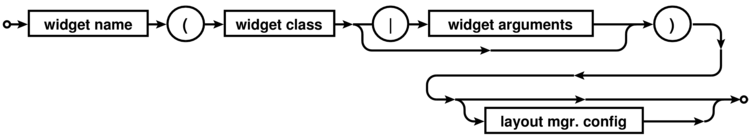
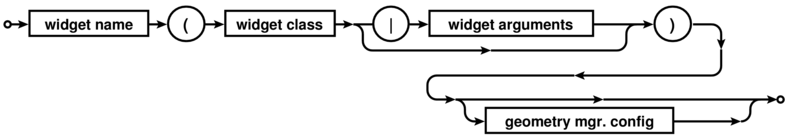
Update docs

diff --git a/doc/index.rst b/doc/index.rst
@@ -10,7 +10,7 @@ Guidoc
 
 Guidoc is a Python package that allows you to create `Tkinter <https://wiki.python.org/moin/TkInter>`_ widget layouts using a simple `docstring specification`_. It can be used dynamically with docstrings passed to a class decorator or to statically generate a layout method from a specification file. The specification lets you describe a widget hierarchy in a compact form with a simple indented list. This is also used to compactly describe menus. When the docutils package is installed, grid layouts can be described using ASCII tables to visually indicate where widgets are located and how they span rows or columns.
 
-Guidoc saves you from the challenge of writing and managing complex Tkinter layouts as you can easily see the parent-child relationships between widgets and menu items. Grid layouts are easy to modify at a later date without having to decipher the row and column indices.
+Guidoc saves you from the challenge of writing and managing complex Tkinter layouts. You can easily see the parent-child relationships between widgets and menu items and change the hierarchy with ease. Grid layouts are easy to modify at a later date without having to decipher the long forgotten row and column indices.
 
 
 .. code-block:: python
@@ -259,7 +259,7 @@ Each grid cell in the table contains a single widget name corresponding to the n
 
 The section parameter for the grid identifies which widget the grid applies to. This must be the name of a container widget that can serve as the parent to child widgets. These are ``Frame`` and ``Toplevel`` in the built in Tkinter classes. One grid section can have its parameter omitted in which case it applies to the top level widgets for the new class being defined in your code.
 
-After the grid is parsed, all widgets identified in the grid are converted to use the grid geometry manager. The cell coordinates and row/column span data are added to the widget specifications. Any sibling widgets missing from the grid have their default layout manager changed to grid as well and they will be stacked in additional rows under column one.
+After the grid is parsed, all widgets identified in the grid are converted to use the grid geometry manager. The cell coordinates and row/column span data are added to the widget specifications. Any sibling widgets missing from the grid have their default geometry manager changed to grid as well and they will be stacked in additional rows under column one.
 
 Sibling widgets that have been explicitly set to use the ``pack`` or ``place`` geometry managers will conflict with the use of the ``grid`` geometry manager. This will cause an exception and terminate parsing of the specification.
 
@@ -310,9 +310,8 @@ For check and radio button items you will want to use the appropriate Tkinter va
 
 .. image:: images/scripts/menu.png
 
-With a menu bar, the first level of hierarchy becomes the top level menu. Subsequent levels are pull down cascade menus. Each cascade menu has its tearoff property disabled by default for a more up to date rendering style.
+With a menu bar, the first level of hierarchy becomes the top level menu. Subsequent levels are pull down cascade menus. Each cascade menu has its tearoff property disabled for a more up to date rendering style.
 
-Internally the Tk library uses numeric indices to refer to menu entries. To help track these indices a ``dict`` called "indices" is inserted into the top level menu widget whose keys are the text of the menu entry.
 
 Using the decorator
 -------------------
@@ -328,10 +327,21 @@ You use the ``tk_layout`` class decorator to dynamically generate the layout met
   method_name
     The name of the method to generate. This defaults to "_build_widgets"
     
+  layout_file
+    An optional path to a text file with the layout specification. Only used when layout is empty.
+    
   require_docutils
     Raise a ``GridError`` exception when docutils is not present. This defaults to False.
 
 The decorator is used on the widget subclass you create for your program. This class should inherit from any Tkinter container widget such as ``Frame`` or ``Toplevel``. It is only ran once before Python creates the class object, parsing the specification and inserting the generated method. After that no part of Guidoc will execute in your program.
+
+It you want the layout stored in a separate file you can use the ``layout_file`` agument to access it.
+
+.. code-block:: python
+
+  @tk_layout(layout_file='my_layout.txt')
+  class MyDialog(tk.Frame)
+    ...
 
 The original layout string is accessible through the ``_guidoc`` attribute of the class.
 
@@ -342,7 +352,7 @@ Your ``__init__`` method should instantiate any Tkinter variables needed by the 
   @tk_layout('''
   # Your layout specification goes here
   ''')
-  class MyFialog(tk.Frame):
+  class MyDialog(tk.Frame):
     def __init__(self, parent):
       tk.Frame.__init__(self, parent)
 
@@ -379,6 +389,37 @@ You can also generate the code from within Python. The ``create_layout_method()`
   
   py_code = create_layout_method(spec, '_build_widgets')
 
+
+It is possible to create an application that automatically switches between the dynamic layout built from a specification and a fixed static method based on the availability of Guidoc. When Guidoc is missing you define a dummy ``tk_layout()`` decorator that does nothing. In this way you can keep the ``tk_layout()`` decorator in place for documentation purposes and still distribute an application that is not dependent on Guidoc.
+
+.. code-block:: python
+
+  import Tkinter as tk
+
+  # Create a dummy decorator if Guidoc is missing
+  try:
+    from guidoc import tk_layout
+  except ImportError:
+    def tk_layout(*args, **kwargs):
+      return lambda cls: cls
+
+  @tk_layout('''btnTest(Button | text="Guidoc button")''')
+  class MyApp(tk.Frame):
+    def __init__(self, parent):
+      tk.Frame.__init__(self, parent)
+      self._build_widgets()
+
+    # This method is replaced by the real tk_layout decorator when Guidoc is available
+    def _build_widgets(self):
+      # Your static widget code here
+      self.btnTest = tk.Button(text='Static button')
+      self.btnTest.pack()
+
+
+  root = tk.Tk()
+  app = MyApp(root)
+  app.pack()
+  root.mainloop()
     
     
 Error handling
